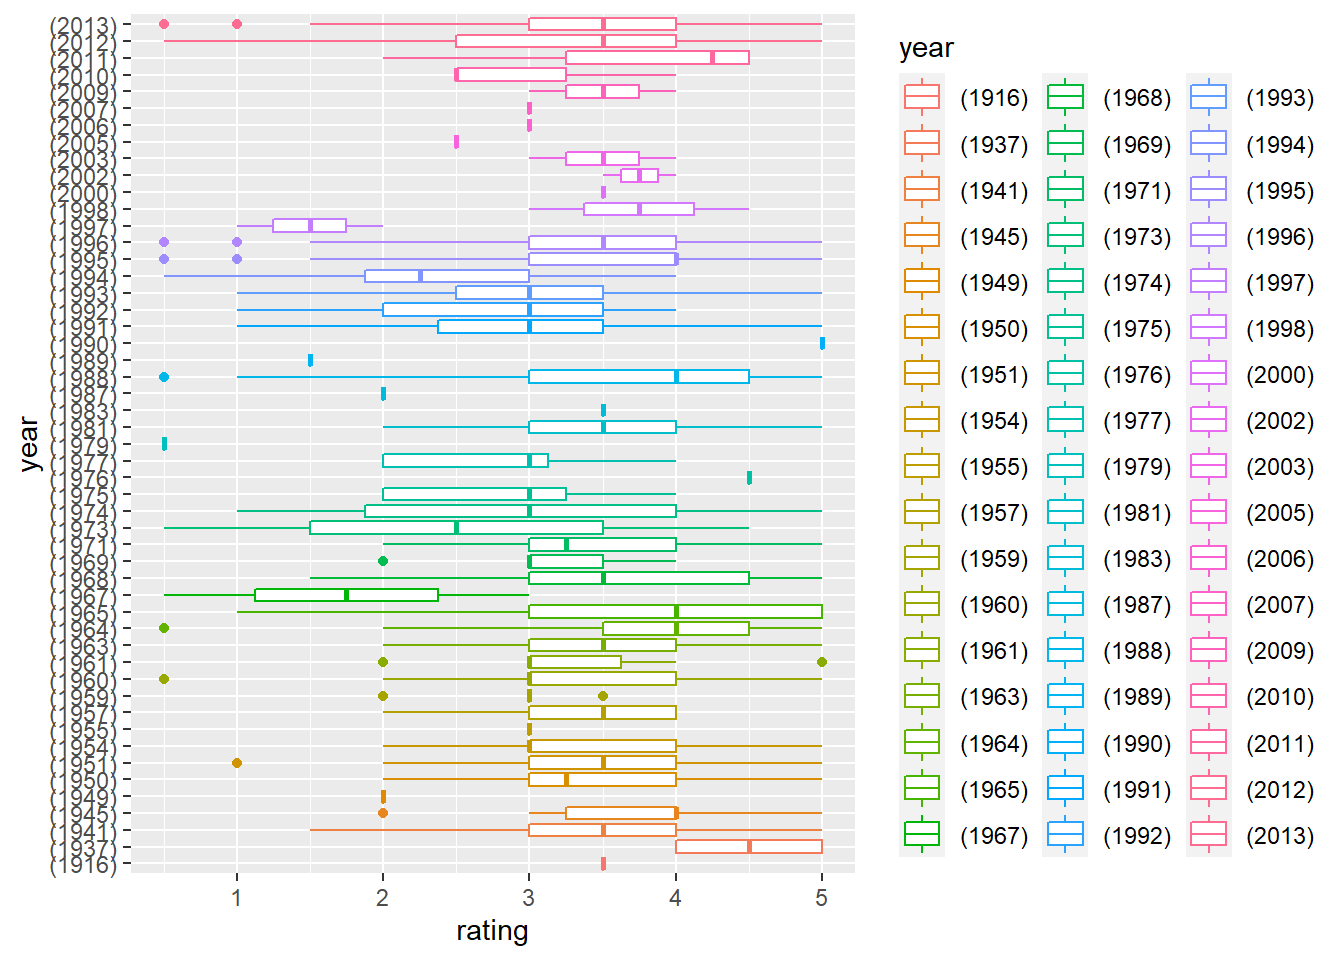
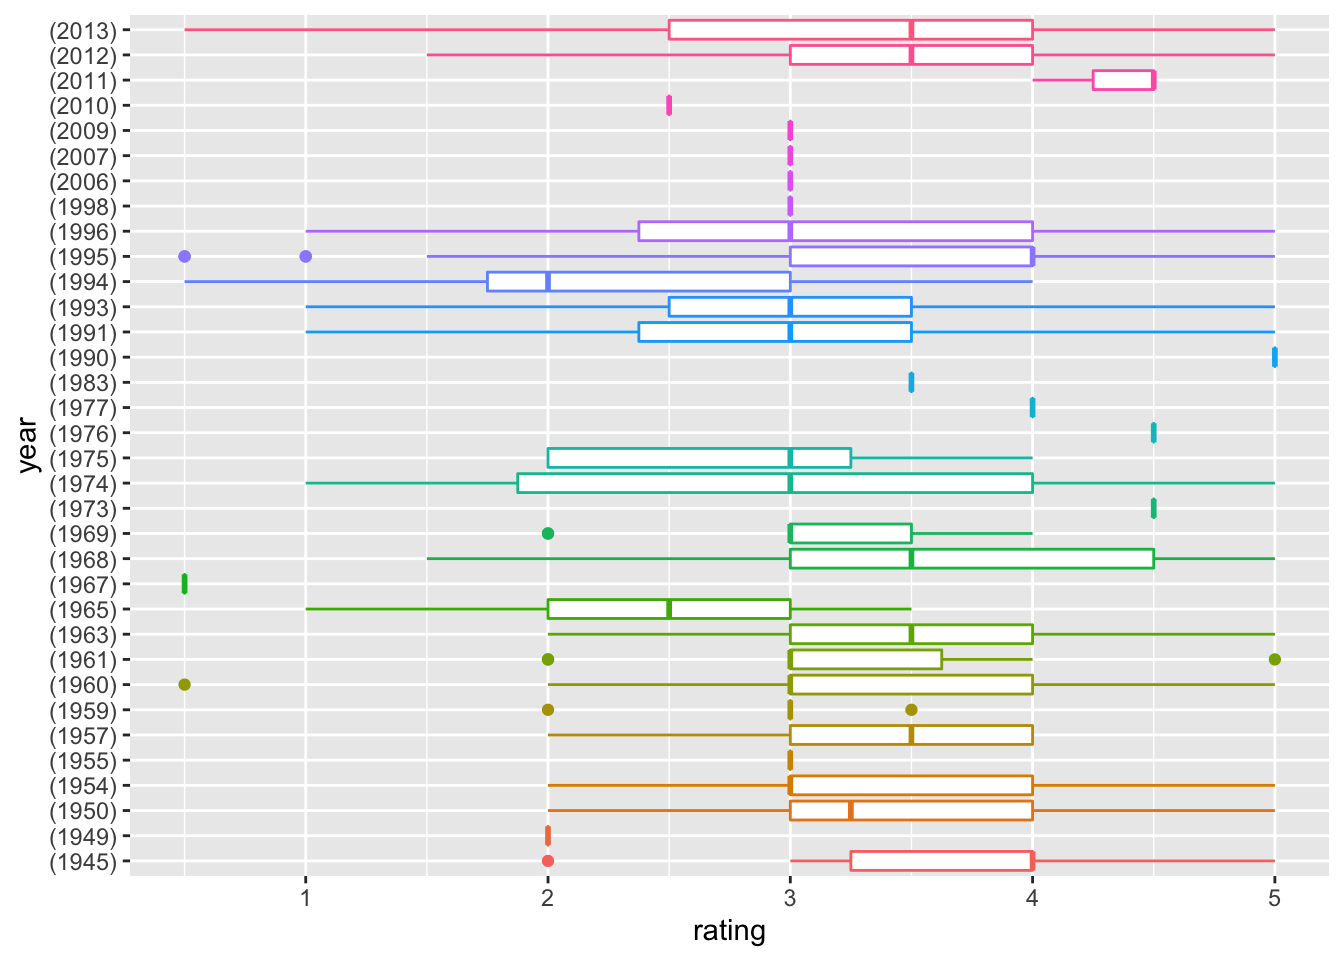
EDA elaboration--yw3608

diff --git a/EDA.html b/EDA.html
@@ -389,6 +389,7 @@ div.tocify {
 </div>
 
 
+<p> </p>
 <div id="overview-of-data-sets" class="section level1">
 <h1>Overview of data sets</h1>
 <ul>
@@ -397,11 +398,15 @@ div.tocify {
 <li>Dataset “links.csv” has 3 variables, including movieId(movie ID),imdbId(IMDb ID) and tmdbId(TMDB ID).</li>
 <li>“movies.csv” is a dataset which includes movieId(movie ID), title(movie title) and genres(movie genres).</li>
 <li>In “ratings.csv” dataset, there are 4 variables. userId represent the user ID, movieId represent movie ID, rating represent the ratings of movies, and timestamp represent a digital record of the time of occurrence of a particular movie. Last but not the least, rating represent the ratings of movies.</li>
-<li>Dataset “tag.csv” has 4 variables, including userId(user ID),movieId(movie ID),tag(tag of movies) and timestamp(digital record of the time of occurrence of a particular movie) -In our Exploratory Analyses, we mainly focus on the following datasets :“ratings.csv”,“movies.csv” and “tag.csv”.</li>
+<li>Dataset “tag.csv” has 4 variables, including userId(user ID),movieId(movie ID),tag(tag of movies) and timestamp(digital record of the time of occurrence of a particular movie) -In our Exploratory Analyses, we mainly focus on the following datasets :“ratings.csv”and “movies.csv”.</li>
 </ul>
+<p> </p>
 </div>
 <div id="summary-of-the-used-packages-and-dependencies" class="section level1">
 <h1>Summary of the used packages and dependencies</h1>
+<ul>
+<li>tidyverse, readr, ggplot2, kableExtra, pastecs, ggpubr</li>
+</ul>
 <pre class="r"><code>knitr::opts_chunk$set(echo = TRUE)
 library(tidyverse)
 library(readr)
@@ -409,30 +414,22 @@ library(ggplot2)
 library(kableExtra)
 library(pastecs)
 library(ggpubr)</code></pre>
+<p> </p>
 </div>
 <div id="overview-of-dataset-ratings.csv" class="section level1">
 <h1>Overview of dataset “ratings.csv”</h1>
+<ul>
+<li><p><strong>Here, we applied the “summarise()” function to briefly describe the variable “rating”</strong>: According to the result, variable rating show that the minimum is 0.5, the first quantile is 3,median is 3.5,mean is 3.502,third quantile is 4 and the maximum is 5.</p></li>
+<li><p>Since userid ,movieid,timestamp only represent the ID of users, id of movies respectively,and digital record of the time of occurrence of a particular movie, <strong>we choose not to analyze those three variables </strong></p></li>
+</ul>
 <pre class="r"><code>data_path = &quot;./data/small/ratings.csv&quot;</code></pre>
 <pre class="r"><code>summary_df = 
   read_csv(data_path, col_types = &quot;ccnc&quot;) %&gt;% 
   janitor::clean_names() %&gt;% 
   summary(summary_df$rating) %&gt;% 
   knitr::kable() %&gt;% 
-  kable_styling(bootstrap_options = c(&quot;striped&quot;))</code></pre>
-<pre><code>## Warning in FUN(X[[i]], ...): strings not representable in native encoding will
-## be translated to UTF-8</code></pre>
-<pre><code>## Warning in FUN(X[[i]], ...): unable to translate &#39;&lt;U+00C4&gt;&#39; to native encoding</code></pre>
-<pre><code>## Warning in FUN(X[[i]], ...): unable to translate &#39;&lt;U+00D6&gt;&#39; to native encoding</code></pre>
-<pre><code>## Warning in FUN(X[[i]], ...): unable to translate &#39;&lt;U+00E4&gt;&#39; to native encoding</code></pre>
-<pre><code>## Warning in FUN(X[[i]], ...): unable to translate &#39;&lt;U+00F6&gt;&#39; to native encoding</code></pre>
-<pre><code>## Warning in FUN(X[[i]], ...): unable to translate &#39;&lt;U+00DF&gt;&#39; to native encoding</code></pre>
-<pre><code>## Warning in FUN(X[[i]], ...): unable to translate &#39;&lt;U+00C6&gt;&#39; to native encoding</code></pre>
-<pre><code>## Warning in FUN(X[[i]], ...): unable to translate &#39;&lt;U+00E6&gt;&#39; to native encoding</code></pre>
-<pre><code>## Warning in FUN(X[[i]], ...): unable to translate &#39;&lt;U+00D8&gt;&#39; to native encoding</code></pre>
-<pre><code>## Warning in FUN(X[[i]], ...): unable to translate &#39;&lt;U+00F8&gt;&#39; to native encoding</code></pre>
-<pre><code>## Warning in FUN(X[[i]], ...): unable to translate &#39;&lt;U+00C5&gt;&#39; to native encoding</code></pre>
-<pre><code>## Warning in FUN(X[[i]], ...): unable to translate &#39;&lt;U+00E5&gt;&#39; to native encoding</code></pre>
-<pre class="r"><code>summary_df</code></pre>
+  kable_styling(bootstrap_options = c(&quot;striped&quot;))
+summary_df</code></pre>
 <table class="table table-striped" style="margin-left: auto; margin-right: auto;">
 <thead>
 <tr>
@@ -551,11 +548,14 @@ NA
 </tr>
 </tbody>
 </table>
-<p><strong>Here, we applied the “summarise()” function to briefly describe the variable “rating”</strong>: According to the result, variable rating show that the minimum is 0.5, the first quantile is 3,median is 3.5,mean is 3.502,third quantile is 4 and the maximum is 5.</p>
-<p>Since userid ,movieid,timestamp only represent the ID of users, id of movies respectively,and digital record of the time of occurrence of a particular movie, <strong>we choose not to analyze those three variables </strong></p>
+<p> </p>
 </div>
 <div id="overview-of-dataset-movies.csv" class="section level1">
 <h1>Overview of dataset “movies.csv”</h1>
+<ul>
+<li><strong>We count the 5 most appeared genres and made a table</strong> : Drama appeared 4361 times,1st place. Comedy appeared 3756 times, 2nd place. Thriller appeared 1894 times, 3rd place. Action appeared 1828 times, 4th place.Romance appeared 1596 time, 5 th place._</li>
+<li><strong>We count the 5 most appeared year of the movie released, and made a table</strong>:2006 appeared 733 times,1st place. 2009 appeared 719 times, 2nd place. 2005 appeared 709 times, 3rd place. 2002 appeared 705 times, 4th place. 2008 appeared 691 time, 5 th place.</li>
+</ul>
 <pre class="r"><code>data_path = &quot;./data/small/movies.csv&quot;
 
 movie_descriptive = 
@@ -696,10 +696,13 @@ n
 </ol></li>
 </ol></li>
 </ol>
-<p><strong>We count the 5 most appeared genres and made a table</strong> : Drama appeared 4361 times,1st place. Comedy appeared 3756 times, 2nd place. Thriller appeared 1894 times, 3rd place. Action appeared 1828 times, 4th place.Romance appeared 1596 time, 5 th place. <strong>We count the 5 most appeared year of the movie released, and made a table</strong>:2006 appeared 733 times,1st place. 2009 appeared 719 times, 2nd place. 2005 appeared 709 times, 3rd place. 2002 appeared 705 times, 4th place. 2008 appeared 691 time, 5 th place.</p>
+<p> </p>
 </div>
 <div id="find-popular-movies-and-high-rating-movies" class="section level1">
 <h1>Find popular movies and high-rating movies</h1>
+<ul>
+<li><strong>Find popular movies and high-rating movies</strong> : In order to find the top 5 popular movies with highest rating, we filtered movies with rating less than 5, and count the 5 most rated movies. The Shawshank Redemption (1994) is the most popular movie, which has 153 times user rating. No.2 Pulp Fiction (1994), has 123 times user rating. 116 times user rating, Forrest Gump (1994) wins the 3rd popular place. The Matrix (1999) has 109 times user rating,and is the fourth place among the top 5 popular movies. No. 5 is Star Wars: Episode IV - A New Hope (1977), and it has 104 times user rating. We also find out that among those 5 most rated movies and highest rating movies, genres with tag drama appears the most(3 times, appear in Forrest Gump (1994), Pulp Fiction (1994),The Shawshank Redemption (1994)). We also find out one interesting fact is that among the 5 most popular movies and 5 highest rating movies, 3 movies are released in 1994; 4 movies are released in the 90s.</li>
+</ul>
 <pre class="r"><code>data_path = &quot;./data/small/ratings.csv&quot;
 
 rating_tidy = 
@@ -835,16 +838,19 @@ Action|Adventure|Sci-Fi
 </td>
 </tr>
 </tbody>
-</table>
-<strong>Find popular movies and high-rating movies</strong> : In order to find the top 5 popular movies with highest rating, we filtered movies with rating less than 5, and count the 5 most rated movies. The Shawshank Redemption (1994) is the most popular movie, which has 153 times user rating. No.2 Pulp Fiction (1994), has 123 times user rating. 116 times user rating, Forrest Gump (1994) wins the 3rd popular place. The Matrix (1999) has 109 times user rating,and is the fourth place among the top 5 popular movies. No. 5 is Star Wars: Episode IV - A New Hope (1977), and it has 104 times user rating. We also find out that among those 5 most rated movies and highest rating movies, genres with tag drama appears the most(3 times, appear in Forrest Gump (1994), Pulp Fiction (1994),The Shawshank Redemption (1994)). We also find out one interesting fact is that among the 5 most popular movies and 5 highest rating movies, 3 movies are released in 1994; 4 movies are released in the 90s.</li>
+</table></li>
 </ol></li>
 </ol></li>
 </ol></li>
 </ol></li>
 </ol>
+<p> </p>
 </div>
 <div id="find-the-average-rating-of-each-genres-in-different-year" class="section level1">
 <h1>Find the average rating of each genres in different year</h1>
+<ul>
+<li><strong>Find the average rating of each genres in different year</strong>: In 1902, the average ratings for genres Action, Adventure, Fantasy, Sci-Fi are all 3.5. In 1903, the average ratings for genres Crime and Western are both 2.5. The averages for genres Animation, Comedy, Sci-Fi in 1908 are all 4.0. The genre Drama’s average ratings in 1915 is 2.0.</li>
+</ul>
 <pre class="r"><code>movie_names_ave = 
   read_csv(&quot;./data/small/movies.csv&quot;) %&gt;% 
   rename(movie_id = movieId) %&gt;% 
@@ -988,8 +994,7 @@ Drama
 </td>
 </tr>
 </tbody>
-</table>
-<strong>Find the average rating of each genres in different year</strong>: In 1902, the average ratings for genres Action, Adventure, Fantasy, Sci-Fi are all 3.5. In 1903, the average ratings for genres Crime and Western are both 2.5. The averages for genres Animation, Comedy, Sci-Fi in 1908 are all 4.0. The genre Drama’s average ratings in 1915 is 2.0.</li>
+</table></li>
 </ol></li>
 </ol></li>
 </ol></li>
@@ -1000,9 +1005,13 @@ Drama
 </ol></li>
 </ol></li>
 </ol>
+<p> </p>
 </div>
-<div id="boxplot-regarding-ratings-and-genres" class="section level1">
-<h1>Boxplot regarding ratings and genres</h1>
+<div id="boxplot-exporing-rating-distribution-among-different-genres" class="section level1">
+<h1>Boxplot exporing rating distribution among different genres</h1>
+<ul>
+<li><strong>The boxplot regarding ratings and genres shows</strong>: The spread of the ratings of War, Mystery,Horror and Crime are larger comparing to the other ratings of genres. All of ratings have outliers around either 1.0 point or 0.5 point. The ratings of genres Film-Noir and documentary have outliers at 1.5 points.We can also conclude that the mean of the ratings of genres like Thriller,sci-fi, Romance, Musical, Horror, Fantasy, Comedy, Children, Adventure and Action all equal to 3.5. The mean of the ratings of genres include Western, War, Mystery, IMAX, Film-Noir, Drama, Documentary, Crime and Animation all equal to 4.</li>
+</ul>
 <pre class="r"><code>movie_names = 
   read_csv(&quot;./data/small/movies.csv&quot;) %&gt;% 
   rename(movie_id = movieId) %&gt;% 
@@ -1016,13 +1025,18 @@ filter_ratingscore =
   janitor::clean_names() %&gt;%
   separate_rows(genres, sep = &quot;[|]&quot;) %&gt;%
   filter(!genres  %in% &quot;(no genres listed)&quot;) %&gt;% 
-  ggplot(aes(x = rating, y = genres)) + geom_boxplot(aes(color = genres))
+  ggplot(aes(x = rating, y = genres)) + geom_boxplot(aes(color = genres, alpha = .5)) +
+  theme(legend.position=&quot;none&quot;) 
+  viridis::scale_color_viridis(discrete = TRUE)
 boxplot_df </code></pre>
 <p><img src="EDA_files/figure-html/unnamed-chunk-10-1.png" width="672" /></p>
-<p><strong>The boxplot regarding ratings and genres shows</strong>: The spread of the ratings of War, Mystery,Horror and Crime are larger comparing to the other ratings of genres. All of ratings have outliers around either 1.0 point or 0.5 point. The ratings of genres Film-Noir and documentary have outliers at 1.5 points.We can also conclude that the mean of the ratings of genres like Thriller,sci-fi, Romance, Musical, Horror, Fantasy, Comedy, Children, Adventure and Action all equal to 3.5. The mean of the ratings of genres include Western, War, Mystery, IMAX, Film-Noir, Drama, Documentary, Crime and Animation all equal to 4.</p>
+<p> </p>
 </div>
-<div id="boxplot-regarding-ratings-and-years" class="section level1">
-<h1>Boxplot regarding: ratings and years</h1>
+<div id="boxplot-exporing-rating-distribution-among-different-years" class="section level1">
+<h1>Boxplot exporing rating distribution among different years</h1>
+<ul>
+<li><strong>The boxplot regarding ratings and year shows</strong>: Since this dataset include too much year, we choose to show only part of the boxplot regarding year and rating. According to the boxplot, we can conclude that the rating of years including 2010, 2009, 2007,2006 and 1998 have the least rating data records. There is no obovious trend shown in the plot.</li>
+</ul>
 <pre class="r"><code>movie_names = 
   read_csv(&quot;./data/small/movies.csv&quot;) %&gt;% 
   rename(movie_id = movieId) %&gt;% 
@@ -1030,15 +1044,17 @@ boxplot_df </code></pre>
   title, c(&quot;name&quot;, &quot;year&quot;), sep=&quot;\\s+(?=\\S*$)&quot;) </code></pre>
 <pre class="r"><code>boxplot_df2 = 
   merge(filter_ratingscore, movie_names) %&gt;%
-  head(2500) %&gt;% 
+  head(1000) %&gt;% 
   ggplot(aes(x = rating, y = year)) + geom_boxplot(aes(color = year))+
+  theme(legend.position=&quot;none&quot;) 
   viridis::scale_fill_viridis(discrete = TRUE)
+
 boxplot_df2 </code></pre>
 <p><img src="EDA_files/figure-html/unnamed-chunk-12-1.png" width="672" /></p>
-<p><strong>The boxplot regarding ratings and year shows</strong>: Since this dataset include too much year, we choose to show only part of the boxplot regarding year and rating. According to the boxplot, we can conclude that the rating of years including 2010, 2009, 2007,2006 and 1998 have the least rating data records. There is no obovious trend shown in the plot.</p>
+<p> </p>
 </div>
-<div id="kruskal-test-regarding-user-id-and-rating" class="section level1">
-<h1>Kruskal Test regarding user ID and rating</h1>
+<div id="kruskal-wallis-test-regarding-user-id-and-rating" class="section level1">
+<h1>Kruskal-Wallis Test regarding user ID and rating</h1>
 <ul>
 <li>Here, we want to do a test to determine whether there are any statistically significant differences between the mean ratings of the user from the 600 users are different(ANOVA)</li>
 <li>First, we checked whether the rating is normally distributed.</li>
@@ -1047,14 +1063,15 @@ boxplot_df2 </code></pre>
   geom_histogram(alpha = 0.3, bins = 30)</code></pre>
 <p><img src="EDA_files/figure-html/unnamed-chunk-13-1.png" width="672" /></p>
 <ul>
-<li>The plot shows that the raing is not normally distributed, we need to use non parametric test.</li>
-<li>Thus, we used the Kruskal Test regarding user ID and rating.</li>
+<li>The plot shows that the rating is not normally distributed, we need to use non parametric test.</li>
+<li>Thus, we used the Kruskal-Wallis Test regarding user ID and rating.</li>
 </ul>
-<p>Assumption:</p>
-<p><span class="math inline">\(H_0:\mu_{0}=\mu_1=\mu_2=\mu_3=...=\mu _x\)</span> <span class="math inline">\(H_1: At\ least\ two\ of\ the\ mean\ ratings\ of\ the\  users\ are\ different.\)</span></p>
+<p><strong>Assumption</strong></p>
+<p><span class="math inline">\(H_0:\mu_{0}=\mu_1=\mu_2=\mu_3=...=\mu _x\)</span></p>
+<p><span class="math inline">\(H_1: \text{At least two of the mean ratings of the users are different}\)</span></p>
 <pre class="r"><code>kruskal.test(rating ~ user_id, data = filter_ratingscore) %&gt;% 
  broom::tidy() %&gt;% 
- knitr::kable() %&gt;% 
+ kableExtra::kbl() %&gt;% 
  kable_styling(bootstrap_options = c(&quot;striped&quot;))</code></pre>
 <table class="table table-striped" style="margin-left: auto; margin-right: auto;">
 <thead>
@@ -1090,7 +1107,9 @@ Kruskal-Wallis rank sum test
 </tr>
 </tbody>
 </table>
-<p>At 0.05 significance level, we reject the null hypothesis and conclude that at least two of the mean ratings of the user from the 600 users are different.</p>
+<ul>
+<li><strong>Conclusion</strong>:At 0.05 significance level, we reject the null hypothesis and conclude that at least two of the mean ratings of the user from the 600 users are different.</li>
+</ul>
 </div>
 
 
